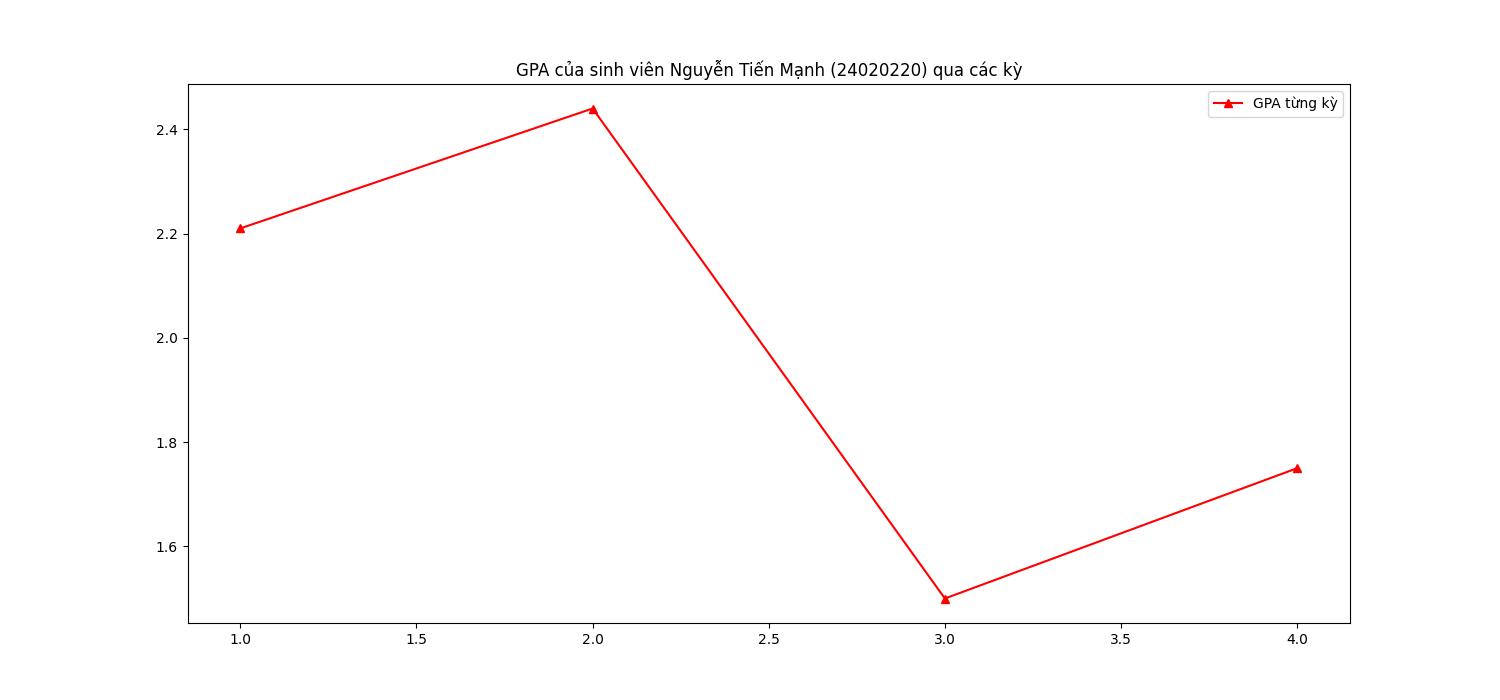
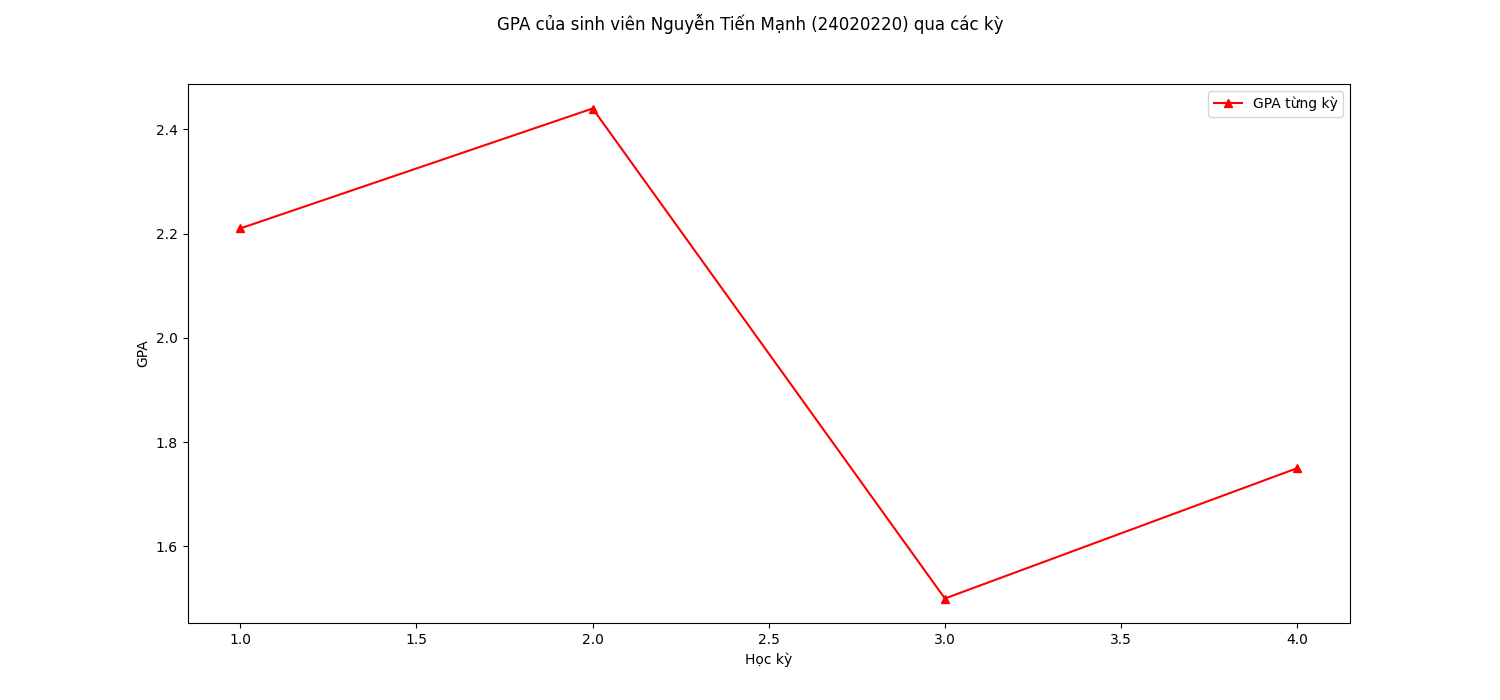
biểu đồ GPA của tất cả sinh viên trong 1 kì

Changed region(s): [[0.3373, 0.09, 0.6747, 0.12], [0.3373, 0.03, 0.6747, 0.06], [0.4907, 0.93, 0.5213, 0.96]]

diff --git a/libs/draw/draw_chart.py b/libs/draw/draw_chart.py
@@ -1,20 +1,39 @@
-from cProfile import label
 import matplotlib.pyplot as plt
 from libs.database_lib.evaluate_student_lib import *
 
 def draw_chart_each_gpa_of_a_student(MSSV):
-    plt_draw = plt
-    plt_draw = set_figure(plt_draw, f"GPA của sinh viên {get_name_student(MSSV)} ({MSSV}) qua các kỳ")
-    gpa_each_HocKy = [get_gpa_4(MSSV, 12425), get_gpa_4(MSSV, 22425), get_gpa_4(MSSV, 12526), get_gpa_4(MSSV, 22526)]
-    plt_draw.plot([1, 2, 3, 4], gpa_each_HocKy, "r-^", label="GPA từng kỳ")
-    plt_draw.legend()
-    plt_draw.savefig(f"./resources/output_images/draw_chart_each_gpa_of_a_student_{MSSV}")
-    plt_draw.show()
+    fig, ax = plt.subplots(figsize=(15, 7))
+    set_figure(fig, f"GPA của sinh viên {get_name_student(MSSV)} ({MSSV}) qua các kỳ")
 
-def set_figure(plt_draw, title):
-    plt_draw.figure(figsize=(15, 7))
-    plt_draw.title(title)
-    manager = plt_draw.get_current_fig_manager()
+    gpa_each_HocKy = [
+        get_gpa_4(MSSV, 12425),
+        get_gpa_4(MSSV, 22425),
+        get_gpa_4(MSSV, 12526),
+        get_gpa_4(MSSV, 22526)
+    ]
+
+    ax.plot([1, 2, 3, 4], gpa_each_HocKy, "r-^", label="GPA từng kỳ")
+    ax.set_xlabel("Học kỳ")
+    ax.set_ylabel("GPA")
+    ax.legend()
+    fig.savefig(f"./resources/output_images/draw_chart_each_gpa_of_a_student_{MSSV}.png")
+    plt.show()
+
+def draw_chart_gpa_of_all_students_a_HocKy(HocKy):
+    fig, ax = plt.subplots(figsize=(15, 7))
+    set_figure(fig, f"GPA của tất cả sinh viên qua kỳ {HocKy}")
+
+    all_gpa_HocKy = [get_gpa_4(mssv, HocKy) for mssv in get_all_MSSV()]
+    ax.plot(get_all_MSSV(), all_gpa_HocKy, "r-^", label="Điểm - MSSV tương ứng")
+    ax.set_xlabel("MSSV")
+    ax.set_ylabel("GPA")
+    ax.legend()
+    fig.savefig(f"./resources/output_images/draw_chart_gpa_of_all_students_a_HocKy_{HocKy}.png")
+    plt.show()
+
+def set_figure(fig, title):
+    fig.suptitle(title) 
+    manager = plt.get_current_fig_manager()
     manager.set_window_title(title)
-    manager.window.wm_geometry("+0+0")
-    return plt_draw
+    manager.window.wm_geometry("+0+0") 
+    return fig

diff --git a/libs/database_lib/evaluate_student_lib.py b/libs/database_lib/evaluate_student_lib.py
@@ -143,3 +143,8 @@ def evaluate_student(MSSV, HocKy=None):
         f"Điểm trung bình tích lũy trong kỳ {HocKy} (Hệ 10): {get_gpa_10(MSSV, HocKy)}.\n"\
         f"Điểm trung bình tích lũy trong kỳ {HocKy} (Hệ 4): {get_gpa_4(MSSV, HocKy)}.\n" \
         f"Học lực trong kỳ {HocKy}: {evaluate_academic_perfomance(MSSV, HocKy)}"
+    
+def get_all_MSSV():
+    cursor.execute("SELECT MSSV FROM SinhVienn;")
+    rows = cursor.fetchall()
+    return [row[0] for row in rows]

diff --git a/main.py b/main.py
@@ -3,4 +3,5 @@ from libs.database_lib.evaluate_student_lib import *
 from libs.draw.draw_chart import *
 
 if __name__ == "__main__":
-    draw_chart_each_gpa_of_a_student(24020220)
+    # draw_chart_each_gpa_of_a_student(24020220)
+    draw_chart_gpa_of_all_students_a_HocKy(12425)    
